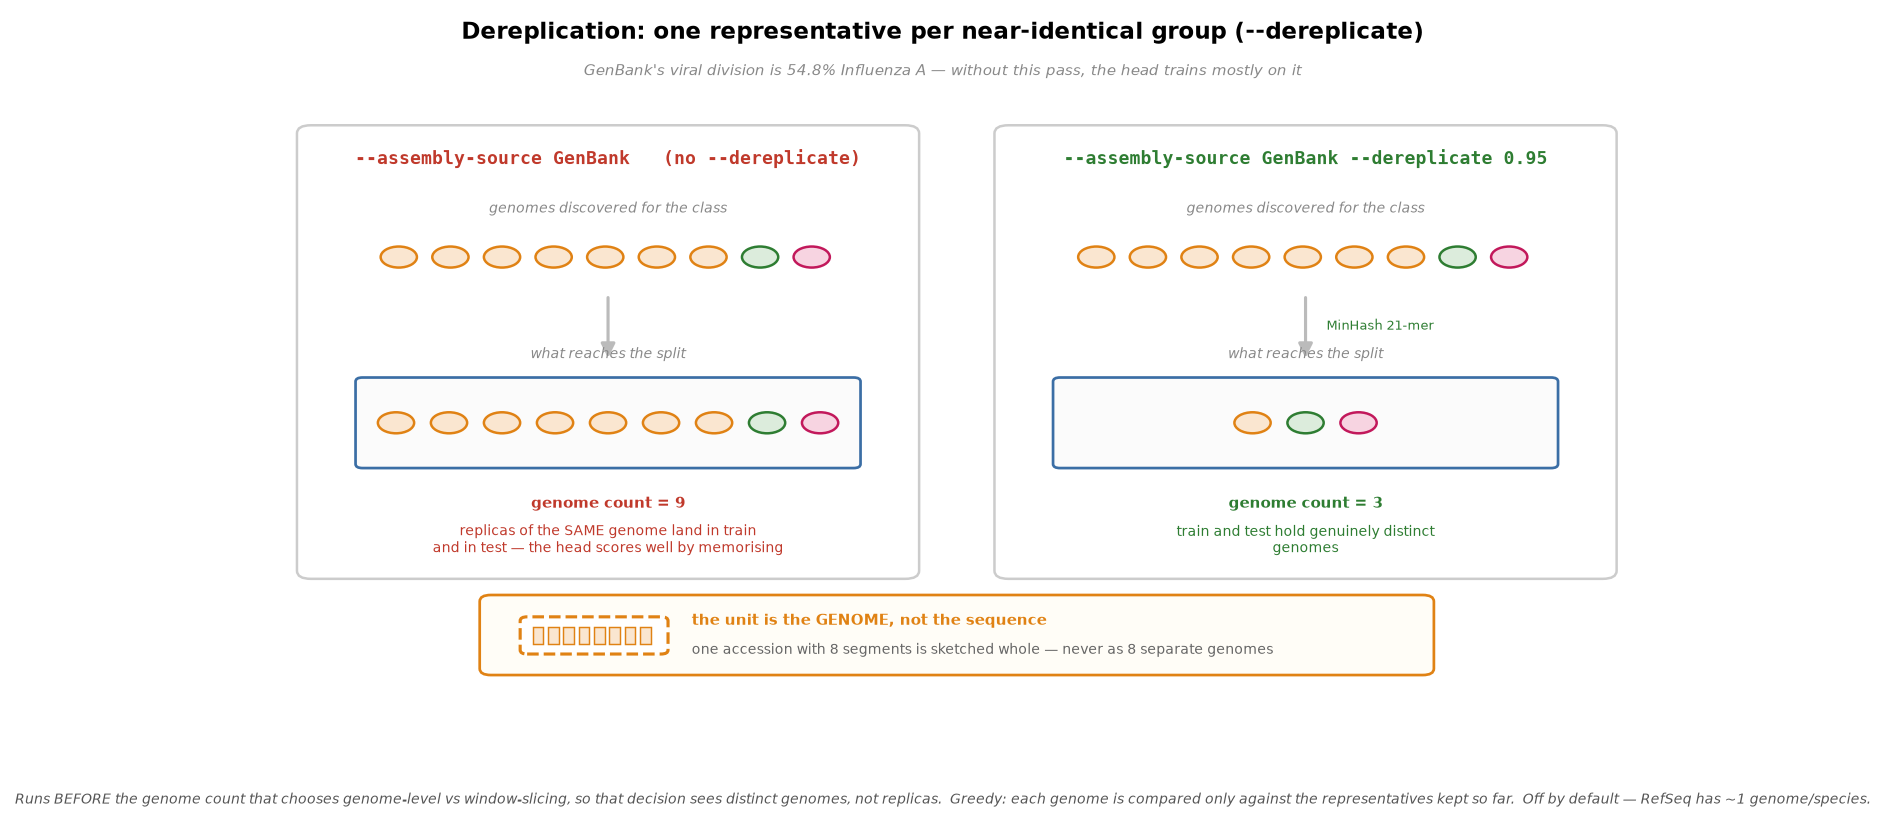
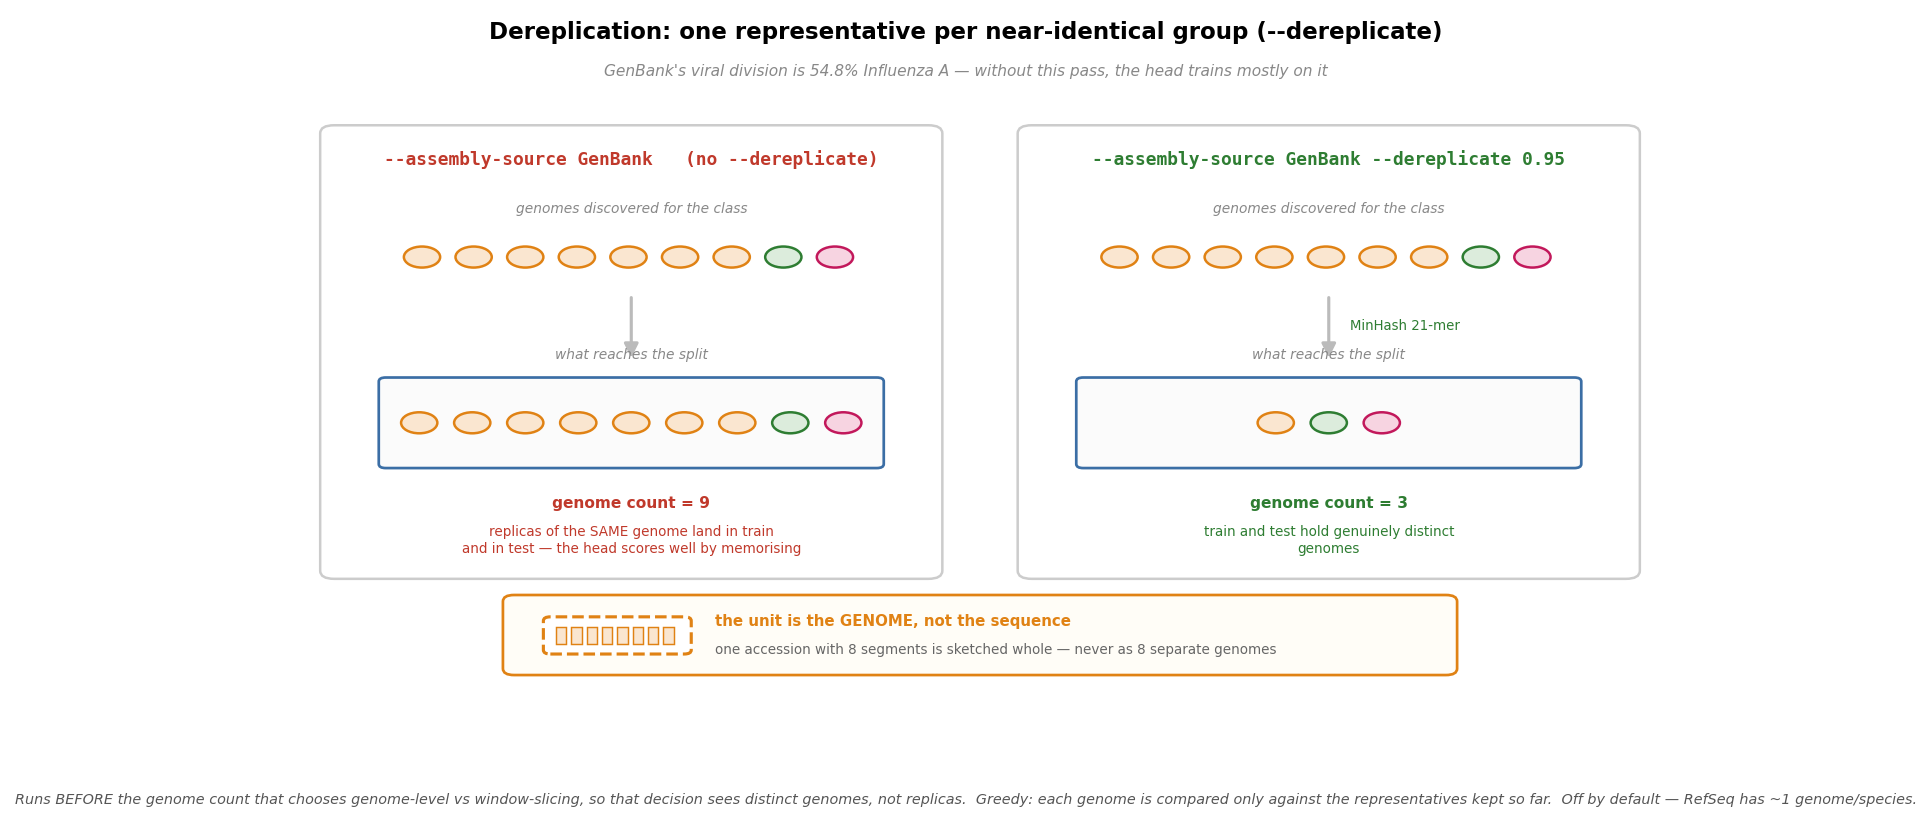
docs: --only por figura, e a versao do matplotlib fixada
Gerar UMA figura reescrevia as treze: o matplotlib renderiza texto um pouco
diferente entre versoes, entao rodar o script sob outra versao produz a mesma
imagem com bytes diferentes. Aconteceu em 2026-08-22 -- acrescentar uma figura
deixou doze PNGs nao relacionados modificados, ~15% menores, sem mudanca de
conteudo. Diff que ninguem revisa, num repositorio publico.

Duas guardas:
- --only <nome> regenera uma so; --list mostra os nomes.
- EXPECTED_MPL = 3.10.1, lido do metadado "Software" dos PNGs commitados. O script
  recusa rodar sob outra versao, diz qual usar e nao toca em nada. --force para um
  bump deliberado.

Criado o env taxotreeset-docs com matplotlib 3.10.1 e a dereplication.png
regenerada nele: os hifens do rodape, que sob 3.11.1 saiam deformados, voltaram ao
normal. O defeito era de versao mesmo, nao de fonte faltando -- DejaVu Sans tem
oblique e nao italic, mas testado isolado os dois renderizam igual.

diff --git a/docs/make_figures.py b/docs/make_figures.py
@@ -4,13 +4,34 @@
 Each figure is a self-contained matplotlib schematic (no external data), so the
 docs stay reproducible:
 
-    python docs/make_figures.py
+    python docs/make_figures.py                 # all figures
+    python docs/make_figures.py --only pipeline # just one
+    python docs/make_figures.py --list          # what is available
 
 Figures are written to docs/figures/.
+
+WHY THE VERSION IS PINNED. Matplotlib renders text slightly differently between
+releases, so regenerating one figure under a different version silently rewrites
+every OTHER figure too — same picture, different bytes. That happened on
+2026-08-22: adding one figure left twelve unrelated PNGs modified, ~15% smaller,
+with no content change. Nobody would review that diff, and it would land in a
+public repo.
+
+Two guards, therefore: ``--only`` regenerates a single figure, and the version
+below must match the one that produced the committed PNGs. Use the ``taxotreeset-
+docs`` conda environment:
+
+    conda create -n taxotreeset-docs -c conda-forge python=3.12 matplotlib=3.10.1
+    conda run -n taxotreeset-docs python docs/make_figures.py --only <name>
 """
+import argparse
+import sys
 from pathlib import Path
 
 import matplotlib
+
+# A versao que gerou os PNGs commitados, lida do metadado "Software" deles.
+EXPECTED_MPL = "3.10.1"
 
 matplotlib.use("Agg")
 import matplotlib.pyplot as plt
@@ -1203,20 +1224,68 @@ def fig_dereplication() -> None:
     plt.close(fig)
 
 
-if __name__ == "__main__":
-    fig_taxotreeset()
-    fig_generate_detail()
-    fig_generate_visual()
-    fig_virtual_buckets()
-    fig_reject_bucket()
-    fig_binary_heads()
-    fig_capacity_bottomup()
-    fig_distribution_split()
-    fig_selective_download()
-    fig_tree_of_heads()
-    fig_cluster_aware_split()
-    fig_clade_holdout()
-    fig_dereplication()
+# Nome da figura (o do PNG) -> funcao que a desenha.
+FIGURES = {
+    "pipeline": fig_taxotreeset,
+    "generate_stages": fig_generate_detail,
+    "generate_balancing": fig_generate_visual,
+    "virtual_buckets": fig_virtual_buckets,
+    "reject_bucket": fig_reject_bucket,
+    "binary_heads": fig_binary_heads,
+    "capacity_bottomup": fig_capacity_bottomup,
+    "split_distribution": fig_distribution_split,
+    "selective_download": fig_selective_download,
+    "parameterization": fig_tree_of_heads,
+    "cluster_aware_split": fig_cluster_aware_split,
+    "clade_holdout": fig_clade_holdout,
+    "dereplication": fig_dereplication,
+}
+
+
+def main() -> int:
+    ap = argparse.ArgumentParser(description=__doc__.splitlines()[0])
+    ap.add_argument("--only", metavar="NAME",
+                    help="Regenerate a single figure (see --list). Without it, "
+                         "every figure is rewritten, which churns the ones you "
+                         "did not touch.")
+    ap.add_argument("--list", action="store_true",
+                    help="List the figure names and exit.")
+    ap.add_argument("--force", action="store_true",
+                    help="Render even when the matplotlib version differs from "
+                         f"the pinned {EXPECTED_MPL}. Expect byte-level churn in "
+                         "every figure produced.")
+    a = ap.parse_args()
+
+    if a.list:
+        for nome in sorted(FIGURES):
+            print(nome)
+        return 0
+
+    if matplotlib.__version__ != EXPECTED_MPL and not a.force:
+        print(f"matplotlib {matplotlib.__version__} != {EXPECTED_MPL}, which "
+              f"produced the committed figures.", file=sys.stderr)
+        print("Rendering now would rewrite every figure with no content change. "
+              "Use the pinned environment:", file=sys.stderr)
+        print("  conda run -n taxotreeset-docs python docs/make_figures.py "
+              f"{'--only ' + a.only if a.only else ''}".rstrip(), file=sys.stderr)
+        print("  (or pass --force if the version bump is intentional)",
+              file=sys.stderr)
+        return 1
+
+    if a.only:
+        if a.only not in FIGURES:
+            print(f"Unknown figure {a.only!r}. Try --list.", file=sys.stderr)
+            return 1
+        alvo = {a.only: FIGURES[a.only]}
+    else:
+        alvo = FIGURES
+
+    for nome, fn in alvo.items():
+        fn()
+        print(f"  {nome}.png")
     print(f"Figures written to {FIG}/")
-    for p in sorted(FIG.glob("*.png")):
-        print(f"  {p.name}")
+    return 0
+
+
+if __name__ == "__main__":
+    raise SystemExit(main())

diff --git a/README.md b/README.md
@@ -814,5 +814,25 @@ pytest
 ```
 
 Coverage is available with `pytest --cov=taxotreeset`, and linting with
-`ruff check src tests`. The README figures are regenerated, from no external
-data, with `python docs/make_figures.py`.
+`ruff check src tests`.
+
+### Regenerating the figures
+
+Every figure in this README is a self-contained matplotlib schematic drawn by
+`docs/make_figures.py` — no external data, so the docs stay reproducible.
+
+Matplotlib renders text slightly differently between releases, so the version is
+**pinned to the one that produced the committed PNGs**. Without that pin,
+regenerating a single figure rewrites all thirteen: same picture, different bytes,
+and a diff nobody can review. The script refuses to run under a different version
+and tells you what to do.
+
+```
+conda create -n taxotreeset-docs -c conda-forge python=3.12 matplotlib=3.10.1
+conda run -n taxotreeset-docs python docs/make_figures.py --list
+conda run -n taxotreeset-docs python docs/make_figures.py --only dereplication
+```
+
+Use `--only <name>` when changing one figure; omitting it rewrites every figure.
+`--force` renders under a different matplotlib anyway — intended for a deliberate
+version bump, which regenerates all thirteen and updates `EXPECTED_MPL`.
